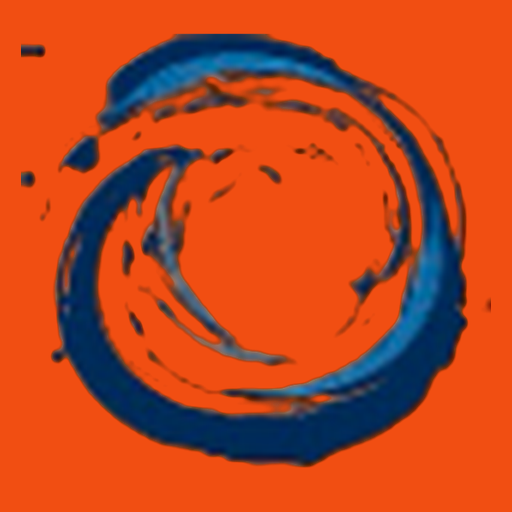
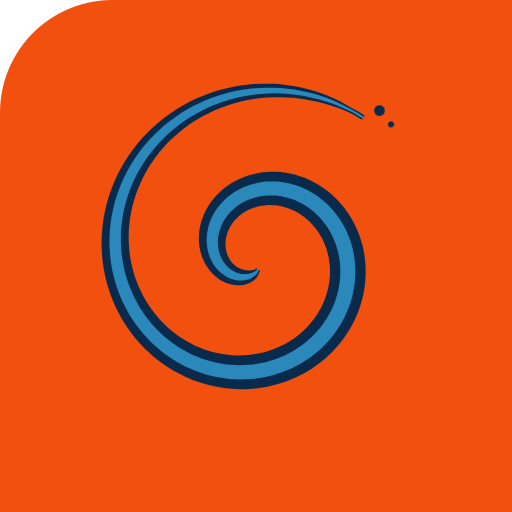
Spirale vettoriale nitida + intro che si dipinge da sola
- Nuova spirale in SVG vettoriale (pennellata calligrafica navy + azzurro):
  nitida a qualsiasi dimensione, leggerissima, non più sgranata
- Intro in stile "logo reveal" (come il reel di riferimento): la spirale si
  disegna da sola tramite maschera animata, poi si rivela il nome
- Spirale crisp usata ovunque (hero, manifesto, footer, bullet, favicon)
- Fix intro: effetto mount-once robusto (non dipende più da useReducedMotion)

diff --git a/src/components/SpiralMark.tsx b/src/components/SpiralMark.tsx
@@ -1,0 +1,84 @@
+"use client";
+
+import { useId } from "react";
+import { motion } from "framer-motion";
+import {
+  SPIRAL_CENTERLINE,
+  SPIRAL_NAVY,
+  SPIRAL_SKY,
+  SPIRAL_SPECKLES,
+} from "@/lib/spiralPaths";
+
+// Spirale vettoriale del brand (viewBox 200x200). Nitida a qualsiasi dimensione.
+// `draw`: la spirale si "dipinge" da sola (stile reel), tramite maschera animata.
+export function SpiralMark({
+  className = "",
+  cream = false,
+  draw = false,
+  duration = 1.9,
+  delay = 0,
+}: {
+  className?: string;
+  cream?: boolean;
+  draw?: boolean;
+  duration?: number;
+  delay?: number;
+}) {
+  const id = useId().replace(/:/g, "");
+  const navy = cream ? "#FBF1E4" : "#0A2A4C";
+  const sky = cream ? "#CFE3F0" : "#2E93C8";
+
+  const Fills = (
+    <>
+      <path d={SPIRAL_NAVY} fill={navy} />
+      <path d={SPIRAL_SKY} fill={sky} opacity={0.9} />
+    </>
+  );
+  const Speckles = SPIRAL_SPECKLES.map(([cx, cy, r], i) => (
+    <circle key={i} cx={cx} cy={cy} r={r} fill={navy} />
+  ));
+
+  if (!draw) {
+    return (
+      <svg viewBox="0 0 200 200" className={className} fill="none" aria-hidden>
+        {Fills}
+        {Speckles}
+      </svg>
+    );
+  }
+
+  return (
+    <svg
+      viewBox="0 0 200 200"
+      className={className}
+      fill="none"
+      role="img"
+      aria-label="MementoLab"
+    >
+      <defs>
+        <mask id={`m-${id}`}>
+          <motion.path
+            d={SPIRAL_CENTERLINE}
+            stroke="#fff"
+            strokeWidth={24}
+            strokeLinecap="round"
+            strokeLinejoin="round"
+            fill="none"
+            initial={{ pathLength: 0 }}
+            animate={{ pathLength: 1 }}
+            transition={{ duration, delay, ease: [0.45, 0, 0.2, 1] }}
+          />
+        </mask>
+      </defs>
+      <g mask={`url(#m-${id})`}>{Fills}</g>
+      <motion.g
+        initial={{ opacity: 0, scale: 0.6 }}
+        animate={{ opacity: 1, scale: 1 }}
+        transition={{ delay: delay + duration * 0.82, duration: 0.4 }}
+        style={{ transformOrigin: "center" }}
+      >
+        {Speckles}
+      </motion.g>
+    </svg>
+  );
+}

diff --git a/src/components/SiteIntro.tsx b/src/components/SiteIntro.tsx
@@ -2,58 +2,48 @@
 
 import Image from "next/image";
 import { useEffect, useState } from "react";
-import { AnimatePresence, motion, useReducedMotion } from "framer-motion";
+import { AnimatePresence, motion } from "framer-motion";
+import { SpiralMark } from "./SpiralMark";
 
 export function SiteIntro() {
   const [show, setShow] = useState(false);
-  const reduce = useReducedMotion();
 
+  // Mostra l'intro una sola volta per sessione (mount-once).
   useEffect(() => {
-    // Mostra l'intro una volta per sessione
-    const seen = sessionStorage.getItem("ml_intro_seen");
-    if (!seen) {
-      setShow(true);
-      document.body.style.overflow = "hidden";
-      const t = setTimeout(() => {
-        sessionStorage.setItem("ml_intro_seen", "1");
-        setShow(false);
-        document.body.style.overflow = "";
-      }, reduce ? 900 : 3000);
-      return () => {
-        clearTimeout(t);
-        document.body.style.overflow = "";
-      };
-    }
-  }, [reduce]);
+    if (sessionStorage.getItem("ml_intro_seen")) return;
+    setShow(true);
+    const t = setTimeout(() => {
+      sessionStorage.setItem("ml_intro_seen", "1");
+      setShow(false);
+    }, 3400);
+    return () => clearTimeout(t);
+  }, []);
+
+  // Blocca lo scroll mentre l'intro è visibile.
+  useEffect(() => {
+    document.body.style.overflow = show ? "hidden" : "";
+    return () => {
+      document.body.style.overflow = "";
+    };
+  }, [show]);
 
   return (
     <AnimatePresence>
       {show && (
         <motion.div
+          key="intro"
           className="fixed inset-0 z-[100] flex flex-col items-center justify-center bg-flame"
           initial={{ opacity: 1 }}
           exit={{ y: "-100%" }}
           transition={{ duration: 0.9, ease: [0.76, 0, 0.24, 1] }}
         >
-          <motion.div
-            initial={reduce ? { opacity: 1 } : { scale: 0, rotate: -220, opacity: 0 }}
-            animate={{ scale: 1, rotate: 0, opacity: 1 }}
-            transition={{ duration: 1.2, ease: [0.16, 1, 0.3, 1] }}
-            className="relative h-32 w-32 sm:h-40 sm:w-40"
-          >
-            <Image
-              src="/brand/spiral.png"
-              alt=""
-              fill
-              priority
-              className="object-contain drop-shadow-[0_6px_20px_rgba(10,42,76,0.25)]"
-            />
-          </motion.div>
+          {/* La spirale si dipinge da sola (stile logo-reveal) */}
+          <SpiralMark draw duration={1.9} className="h-36 w-36 sm:h-44 sm:w-44" />
 
           <motion.div
-            initial={reduce ? { opacity: 1 } : { opacity: 0, y: 16 }}
+            initial={{ opacity: 0, y: 16 }}
             animate={{ opacity: 1, y: 0 }}
-            transition={{ delay: 0.8, duration: 0.8, ease: [0.16, 1, 0.3, 1] }}
+            transition={{ delay: 1.95, duration: 0.7, ease: [0.16, 1, 0.3, 1] }}
             className="relative mt-8 h-8 w-64 sm:h-10 sm:w-80"
           >
             <Image
@@ -68,7 +58,7 @@ export function SiteIntro() {
           <motion.p
             initial={{ opacity: 0 }}
             animate={{ opacity: 1 }}
-            transition={{ delay: 1.5, duration: 0.7 }}
+            transition={{ delay: 2.4, duration: 0.6 }}
             className="mt-5 font-sans text-xs uppercase tracking-wide2 text-ink/70"
           >
             L&apos;arte che indossi

diff --git a/src/components/HeroScroll.tsx b/src/components/HeroScroll.tsx
@@ -4,6 +4,7 @@ import Image from "next/image";
 import Link from "next/link";
 import { useRef } from "react";
 import { motion, useScroll, useTransform, useReducedMotion } from "framer-motion";
+import { SpiralMark } from "./SpiralMark";
 
 export function HeroScroll() {
   const ref = useRef<HTMLDivElement>(null);
@@ -36,28 +37,21 @@ export function HeroScroll() {
           aria-hidden
           className="pointer-events-none absolute -left-[20%] top-[8%] h-[55vh] w-[55vh] opacity-[0.10]"
         >
-          <Image src="/brand/spiral.png" alt="" fill className="spin-slow object-contain" />
+          <Image src="/brand/spiral.svg" alt="" fill className="spin-slow object-contain" />
         </div>
         <div
           aria-hidden
           className="pointer-events-none absolute -right-[18%] bottom-[6%] h-[48vh] w-[48vh] opacity-[0.10]"
         >
-          <Image src="/brand/spiral.png" alt="" fill className="spin-slow-rev object-contain" />
+          <Image src="/brand/spiral.svg" alt="" fill className="spin-slow-rev object-contain" />
         </div>
 
-        {/* Spirale protagonista */}
+        {/* Spirale protagonista (vettoriale, nitida) */}
         <motion.div
           style={reduce ? undefined : { rotate, scale, y: spiralY }}
-          className="relative h-[46vh] max-h-[420px] w-[46vh] max-w-[420px]"
+          className="relative h-[46vh] max-h-[420px] w-[46vh] max-w-[420px] drop-shadow-[0_10px_40px_rgba(10,42,76,0.22)]"
         >
-          <Image
-            src="/brand/spiral.png"
-            alt="MementoLab"
-            fill
-            priority
-            sizes="46vh"
-            className="object-contain drop-shadow-[0_10px_40px_rgba(10,42,76,0.25)]"
-          />
+          <SpiralMark className="h-full w-full" />
         </motion.div>
 
         {/* Wordmark che si rivela */}

diff --git a/src/lib/spiralPaths.ts b/src/lib/spiralPaths.ts
@@ -1,0 +1,5 @@
+// Generato: percorsi della spirale (viewBox 0 0 200 200). Vedi DECISIONS.md
+export const SPIRAL_CENTERLINE = "M 100.94 105.93 L 100.74 106.23 L 100.51 106.52 L 100.26 106.8 L 100.0 107.08 L 99.71 107.34 L 99.4 107.59 L 99.07 107.83 L 98.72 108.05 L 98.35 108.26 L 97.96 108.45 L 97.56 108.62 L 97.13 108.77 L 96.7 108.91 L 96.25 109.02 L 95.78 109.11 L 95.3 109.18 L 94.81 109.22 L 94.31 109.24 L 93.8 109.23 L 93.29 109.19 L 92.76 109.13 L 92.23 109.05 L 91.7 108.93 L 91.16 108.79 L 90.63 108.61 L 90.09 108.41 L 89.55 108.18 L 89.02 107.92 L 88.49 107.63 L 87.97 107.31 L 87.46 106.96 L 86.95 106.58 L 86.46 106.18 L 85.98 105.74 L 85.51 105.28 L 85.05 104.78 L 84.62 104.26 L 84.2 103.72 L 83.8 103.14 L 83.42 102.54 L 83.07 101.92 L 82.74 101.27 L 82.43 100.6 L 82.15 99.91 L 81.9 99.19 L 81.68 98.46 L 81.49 97.7 L 81.33 96.93 L 81.2 96.14 L 81.1 95.34 L 81.04 94.53 L 81.02 93.7 L 81.03 92.86 L 81.08 92.02 L 81.16 91.16 L 81.29 90.3 L 81.45 89.44 L 81.65 88.58 L 81.89 87.71 L 82.17 86.85 L 82.49 85.99 L 82.86 85.13 L 83.26 84.29 L 83.7 83.45 L 84.18 82.62 L 84.71 81.8 L 85.27 81.0 L 85.87 80.22 L 86.52 79.45 L 87.2 78.71 L 87.92 77.98 L 88.67 77.28 L 89.47 76.61 L 90.29 75.96 L 91.16 75.35 L 92.05 74.76 L 92.98 74.21 L 93.94 73.69 L 94.94 73.21 L 95.96 72.76 L 97.0 72.35 L 98.07 71.99 L 99.17 71.67 L 100.29 71.39 L 101.43 71.15 L 102.59 70.96 L 103.77 70.82 L 104.96 70.72 L 106.16 70.68 L 107.38 70.68 L 108.6 70.74 L 109.83 70.84 L 111.07 71.0 L 112.31 71.21 L 113.55 71.48 L 114.79 71.79 L 116.02 72.17 L 117.25 72.59 L 118.46 73.07 L 119.67 73.6 L 120.87 74.19 L 122.04 74.83 L 123.2 75.52 L 124.34 76.26 L 125.46 77.06 L 126.55 77.91 L 127.61 78.81 L 128.64 79.75 L 129.65 80.75 L 130.61 81.8 L 131.54 82.89 L 132.43 84.02 L 133.28 85.2 L 134.09 86.43 L 134.85 87.69 L 135.57 88.99 L 136.23 90.33 L 136.85 91.71 L 137.41 93.12 L 137.92 94.56 L 138.37 96.03 L 138.77 97.52 L 139.1 99.05 L 139.38 100.59 L 139.6 102.16 L 139.75 103.74 L 139.84 105.34 L 139.86 106.95 L 139.82 108.57 L 139.71 110.2 L 139.54 111.83 L 139.3 113.46 L 138.99 115.1 L 138.61 116.73 L 138.16 118.35 L 137.65 119.97 L 137.06 121.57 L 136.41 123.16 L 135.69 124.73 L 134.91 126.28 L 134.06 127.8 L 133.14 129.3 L 132.15 130.77 L 131.1 132.2 L 129.99 133.6 L 128.81 134.97 L 127.58 136.29 L 126.28 137.57 L 124.93 138.8 L 123.52 139.98 L 122.05 141.11 L 120.53 142.19 L 118.96 143.22 L 117.34 144.18 L 115.68 145.08 L 113.97 145.92 L 112.22 146.7 L 110.43 147.41 L 108.6 148.04 L 106.74 148.61 L 104.85 149.11 L 102.92 149.53 L 100.98 149.88 L 99.01 150.14 L 97.02 150.33 L 95.01 150.45 L 92.99 150.48 L 90.96 150.43 L 88.92 150.29 L 86.88 150.08 L 84.84 149.78 L 82.81 149.4 L 80.78 148.94 L 78.75 148.39 L 76.75 147.76 L 74.76 147.04 L 72.79 146.24 L 70.84 145.36 L 68.92 144.4 L 67.04 143.35 L 65.18 142.23 L 63.37 141.03 L 61.6 139.75 L 59.87 138.39 L 58.18 136.96 L 56.55 135.45 L 54.97 133.87 L 53.45 132.23 L 51.99 130.52 L 50.6 128.74 L 49.26 126.89 L 48.0 124.99 L 46.81 123.03 L 45.69 121.02 L 44.65 118.95 L 43.69 116.83 L 42.81 114.67 L 42.02 112.46 L 41.31 110.21 L 40.68 107.93 L 40.15 105.61 L 39.7 103.27 L 39.35 100.89 L 39.1 98.5 L 38.93 96.08 L 38.87 93.65 L 38.9 91.21 L 39.03 88.77 L 39.25 86.31 L 39.58 83.86 L 40.0 81.42 L 40.53 78.98 L 41.15 76.55 L 41.88 74.14 L 42.7 71.76 L 43.62 69.39 L 44.64 67.06 L 45.75 64.76 L 46.96 62.49 L 48.26 60.27 L 49.66 58.09 L 51.15 55.96 L 52.73 53.88 L 54.4 51.86 L 56.15 49.9 L 57.99 48.0 L 59.91 46.17 L 61.91 44.41 L 63.98 42.73 L 66.13 41.12 L 68.35 39.6 L 70.64 38.15 L 72.99 36.8 L 75.41 35.53 L 77.88 34.36 L 80.41 33.28 L 82.98 32.3 L 85.61 31.42 L 88.27 30.64 L 90.98 29.96 L 93.72 29.39 L 96.49 28.93 L 99.29 28.58 L 102.11 28.34 L 104.95 28.21 L 107.8 28.19 L 110.67 28.29 L 113.53 28.5 L 116.4 28.83 L 119.26 29.27 L 122.11 29.82 L 124.95 30.5 L 127.77 31.28 L 130.56 32.18 L 133.33 33.2 L 136.06 34.33 L 138.76 35.57 L 141.41 36.92 L 144.02 38.38 L 146.58 39.95";
+export const SPIRAL_NAVY = "M 100.03 105.31 L 99.84 105.58 L 99.66 105.82 L 99.35 105.96 L 98.98 106.02 L 98.63 106.08 L 98.29 106.14 L 97.95 106.18 L 97.62 106.21 L 97.28 106.24 L 96.95 106.25 L 96.62 106.25 L 96.29 106.24 L 95.96 106.21 L 95.62 106.18 L 95.29 106.13 L 94.95 106.07 L 94.62 105.99 L 94.28 105.9 L 93.94 105.8 L 93.6 105.68 L 93.27 105.55 L 92.93 105.4 L 92.6 105.23 L 92.26 105.05 L 91.93 104.86 L 91.61 104.64 L 91.28 104.42 L 90.97 104.17 L 90.65 103.91 L 90.35 103.63 L 90.05 103.33 L 89.75 103.02 L 89.47 102.69 L 89.19 102.35 L 88.93 101.98 L 88.68 101.61 L 88.43 101.21 L 88.2 100.8 L 87.99 100.37 L 87.79 99.93 L 87.6 99.48 L 87.43 99.01 L 87.28 98.52 L 87.15 98.02 L 87.03 97.51 L 86.93 96.99 L 86.86 96.46 L 86.8 95.92 L 86.77 95.36 L 86.76 94.8 L 86.77 94.23 L 86.8 93.65 L 86.86 93.07 L 86.95 92.48 L 87.06 91.88 L 87.2 91.29 L 87.36 90.69 L 87.55 90.09 L 87.76 89.49 L 88.01 88.89 L 88.28 88.29 L 88.58 87.7 L 88.91 87.12 L 89.26 86.54 L 89.65 85.96 L 90.06 85.4 L 90.5 84.85 L 90.96 84.31 L 91.46 83.78 L 91.98 83.26 L 92.53 82.77 L 93.11 82.28 L 93.71 81.82 L 94.34 81.38 L 94.99 80.95 L 95.67 80.55 L 96.37 80.18 L 97.09 79.82 L 97.84 79.5 L 98.61 79.2 L 99.39 78.93 L 100.2 78.69 L 101.02 78.47 L 101.87 78.29 L 102.72 78.15 L 103.59 78.03 L 104.48 77.95 L 105.38 77.91 L 106.28 77.9 L 107.2 77.93 L 108.12 78.0 L 109.06 78.1 L 109.99 78.24 L 110.93 78.43 L 111.87 78.65 L 112.8 78.91 L 113.74 79.22 L 114.67 79.56 L 115.6 79.94 L 116.52 80.37 L 117.43 80.84 L 118.33 81.35 L 119.22 81.9 L 120.09 82.49 L 120.94 83.12 L 121.78 83.79 L 122.6 84.5 L 123.39 85.25 L 124.16 86.03 L 124.91 86.86 L 125.63 87.72 L 126.32 88.62 L 126.98 89.55 L 127.6 90.52 L 128.2 91.52 L 128.75 92.55 L 129.27 93.62 L 129.75 94.71 L 130.19 95.83 L 130.59 96.98 L 130.94 98.15 L 131.25 99.34 L 131.52 100.56 L 131.74 101.8 L 131.91 103.05 L 132.02 104.32 L 132.09 105.61 L 132.11 106.91 L 132.08 108.21 L 131.99 109.53 L 131.85 110.85 L 131.65 112.18 L 131.41 113.5 L 131.1 114.83 L 130.74 116.15 L 130.32 117.47 L 129.85 118.78 L 129.32 120.08 L 128.74 121.37 L 128.1 122.64 L 127.4 123.9 L 126.65 125.14 L 125.85 126.35 L 124.99 127.54 L 124.07 128.7 L 123.11 129.84 L 122.09 130.94 L 121.02 132.01 L 119.9 133.05 L 118.73 134.04 L 117.52 135.0 L 116.26 135.91 L 114.95 136.78 L 113.6 137.6 L 112.21 138.37 L 110.78 139.09 L 109.31 139.76 L 107.81 140.37 L 106.27 140.93 L 104.7 141.43 L 103.1 141.86 L 101.48 142.24 L 99.83 142.56 L 98.15 142.8 L 96.46 142.99 L 94.75 143.11 L 93.02 143.16 L 91.29 143.14 L 89.54 143.05 L 87.79 142.89 L 86.03 142.66 L 84.27 142.36 L 82.52 141.98 L 80.76 141.53 L 79.02 141.01 L 77.29 140.42 L 75.57 139.76 L 73.87 139.02 L 72.19 138.21 L 70.53 137.33 L 68.9 136.38 L 67.29 135.35 L 65.72 134.26 L 64.19 133.1 L 62.69 131.87 L 61.23 130.58 L 59.82 129.22 L 58.45 127.79 L 57.14 126.31 L 55.87 124.76 L 54.66 123.15 L 53.51 121.49 L 52.42 119.77 L 51.39 118.01 L 50.43 116.19 L 49.54 114.32 L 48.71 112.41 L 47.96 110.45 L 47.28 108.45 L 46.68 106.42 L 46.15 104.35 L 45.71 102.26 L 45.34 100.13 L 45.06 97.98 L 44.87 95.8 L 44.76 93.61 L 44.73 91.4 L 44.8 89.18 L 44.95 86.96 L 45.19 84.72 L 45.52 82.49 L 45.95 80.26 L 46.46 78.03 L 47.07 75.82 L 47.76 73.61 L 48.55 71.43 L 49.43 69.26 L 50.39 67.12 L 51.45 65.01 L 52.6 62.93 L 53.83 60.88 L 55.15 58.88 L 56.56 56.92 L 58.05 55.0 L 59.63 53.14 L 61.29 51.32 L 63.02 49.57 L 64.84 47.88 L 66.72 46.25 L 68.69 44.68 L 70.72 43.19 L 72.82 41.77 L 74.99 40.43 L 77.22 39.17 L 79.51 37.99 L 81.86 36.89 L 84.27 35.88 L 86.72 34.96 L 89.22 34.14 L 91.77 33.4 L 94.35 32.77 L 96.98 32.23 L 99.63 31.8 L 102.32 31.46 L 105.03 31.23 L 107.76 31.1 L 110.52 31.08 L 113.28 31.16 L 116.06 31.35 L 118.84 31.65 L 121.63 32.06 L 124.41 32.57 L 127.19 33.19 L 129.97 33.91 L 132.73 34.74 L 135.48 35.67 L 138.22 36.69 L 140.9 37.89 L 143.47 39.33 L 146.01 40.89 L 147.16 39.01 L 144.58 37.43 L 141.93 35.95 L 139.3 34.44 L 136.65 32.99 L 133.93 31.66 L 131.16 30.45 L 128.34 29.38 L 125.48 28.42 L 122.59 27.59 L 119.67 26.88 L 116.74 26.3 L 113.78 25.84 L 110.82 25.5 L 107.85 25.28 L 104.87 25.19 L 101.91 25.22 L 98.95 25.37 L 96.01 25.63 L 93.09 26.02 L 90.19 26.52 L 87.33 27.14 L 84.49 27.87 L 81.7 28.72 L 78.95 29.67 L 76.25 30.73 L 73.59 31.9 L 71.0 33.17 L 68.46 34.53 L 65.99 36.0 L 63.58 37.56 L 61.24 39.21 L 58.98 40.95 L 56.8 42.78 L 54.7 44.68 L 52.68 46.67 L 50.74 48.72 L 48.9 50.85 L 47.15 53.04 L 45.49 55.3 L 43.93 57.61 L 42.47 59.98 L 41.11 62.39 L 39.85 64.86 L 38.69 67.36 L 37.63 69.9 L 36.69 72.47 L 35.85 75.07 L 35.11 77.7 L 34.48 80.34 L 33.97 83.0 L 33.56 85.67 L 33.26 88.35 L 33.06 91.02 L 32.98 93.7 L 33.0 96.36 L 33.13 99.02 L 33.36 101.66 L 33.7 104.28 L 34.14 106.87 L 34.69 109.44 L 35.33 111.97 L 36.07 114.47 L 36.91 116.93 L 37.85 119.35 L 38.88 121.71 L 39.99 124.03 L 41.2 126.29 L 42.49 128.49 L 43.86 130.64 L 45.32 132.71 L 46.85 134.72 L 48.45 136.67 L 50.13 138.53 L 51.87 140.33 L 53.68 142.04 L 55.54 143.68 L 57.47 145.23 L 59.44 146.7 L 61.47 148.08 L 63.55 149.38 L 65.66 150.58 L 67.82 151.7 L 70.01 152.73 L 72.23 153.66 L 74.47 154.5 L 76.75 155.24 L 79.04 155.89 L 81.34 156.45 L 83.66 156.91 L 85.98 157.27 L 88.31 157.54 L 90.63 157.72 L 92.96 157.8 L 95.27 157.79 L 97.57 157.68 L 99.86 157.48 L 102.13 157.19 L 104.37 156.82 L 106.59 156.35 L 108.77 155.8 L 110.93 155.16 L 113.05 154.44 L 115.12 153.64 L 117.16 152.75 L 119.15 151.79 L 121.09 150.76 L 122.97 149.65 L 124.81 148.48 L 126.58 147.23 L 128.3 145.92 L 129.95 144.55 L 131.54 143.12 L 133.06 141.63 L 134.52 140.09 L 135.9 138.5 L 137.22 136.86 L 138.45 135.18 L 139.62 133.46 L 140.71 131.7 L 141.72 129.91 L 142.65 128.09 L 143.5 126.24 L 144.28 124.36 L 144.97 122.47 L 145.58 120.56 L 146.12 118.63 L 146.57 116.7 L 146.94 114.75 L 147.23 112.81 L 147.43 110.86 L 147.56 108.92 L 147.61 106.99 L 147.58 105.06 L 147.47 103.15 L 147.29 101.26 L 147.02 99.38 L 146.69 97.53 L 146.28 95.7 L 145.8 93.9 L 145.25 92.14 L 144.63 90.4 L 143.94 88.7 L 143.19 87.05 L 142.38 85.43 L 141.51 83.86 L 140.58 82.33 L 139.59 80.86 L 138.55 79.43 L 137.46 78.05 L 136.31 76.73 L 135.13 75.47 L 133.9 74.26 L 132.63 73.12 L 131.32 72.03 L 129.97 71.0 L 128.6 70.04 L 127.19 69.14 L 125.76 68.3 L 124.3 67.53 L 122.83 66.83 L 121.33 66.19 L 119.82 65.62 L 118.3 65.12 L 116.77 64.68 L 115.23 64.31 L 113.69 64.0 L 112.15 63.76 L 110.61 63.59 L 109.08 63.48 L 107.55 63.44 L 106.04 63.46 L 104.54 63.54 L 103.05 63.68 L 101.58 63.89 L 100.14 64.16 L 98.72 64.48 L 97.32 64.86 L 95.95 65.29 L 94.61 65.78 L 93.3 66.32 L 92.03 66.91 L 90.8 67.55 L 89.6 68.24 L 88.44 68.96 L 87.32 69.74 L 86.25 70.55 L 85.22 71.4 L 84.24 72.28 L 83.3 73.2 L 82.41 74.15 L 81.57 75.13 L 80.78 76.13 L 80.05 77.16 L 79.36 78.21 L 78.72 79.27 L 78.14 80.36 L 77.61 81.45 L 77.13 82.56 L 76.71 83.68 L 76.34 84.81 L 76.02 85.94 L 75.75 87.07 L 75.54 88.2 L 75.38 89.32 L 75.26 90.44 L 75.2 91.56 L 75.19 92.66 L 75.23 93.75 L 75.32 94.83 L 75.45 95.89 L 75.63 96.93 L 75.85 97.95 L 76.12 98.95 L 76.43 99.92 L 76.78 100.87 L 77.16 101.79 L 77.59 102.68 L 78.05 103.53 L 78.54 104.36 L 79.06 105.15 L 79.61 105.91 L 80.2 106.63 L 80.8 107.32 L 81.43 107.96 L 82.09 108.57 L 82.76 109.14 L 83.45 109.66 L 84.15 110.15 L 84.87 110.59 L 85.6 110.99 L 86.33 111.35 L 87.07 111.67 L 87.82 111.95 L 88.57 112.18 L 89.32 112.37 L 90.06 112.52 L 90.8 112.63 L 91.53 112.69 L 92.26 112.72 L 92.97 112.71 L 93.67 112.66 L 94.35 112.57 L 95.01 112.44 L 95.65 112.28 L 96.27 112.09 L 96.87 111.86 L 97.44 111.6 L 97.98 111.31 L 98.49 110.99 L 98.97 110.65 L 99.41 110.28 L 99.82 109.89 L 100.18 109.48 L 100.51 109.05 L 100.78 108.6 L 101.01 108.13 L 101.18 107.65 L 101.36 107.21 L 101.63 106.87 L 101.85 106.54 Z";
+export const SPIRAL_SKY = "M 100.56 105.67 L 100.36 105.96 L 100.15 106.23 L 99.88 106.45 L 99.57 106.63 L 99.25 106.81 L 98.93 106.98 L 98.6 107.14 L 98.25 107.28 L 97.9 107.41 L 97.54 107.53 L 97.16 107.63 L 96.78 107.71 L 96.39 107.78 L 95.98 107.83 L 95.57 107.86 L 95.16 107.87 L 94.73 107.86 L 94.3 107.84 L 93.86 107.79 L 93.42 107.72 L 92.97 107.63 L 92.53 107.51 L 92.08 107.38 L 91.63 107.22 L 91.18 107.04 L 90.73 106.83 L 90.28 106.6 L 89.84 106.35 L 89.4 106.07 L 88.97 105.77 L 88.54 105.44 L 88.13 105.09 L 87.72 104.71 L 87.33 104.32 L 86.94 103.89 L 86.58 103.45 L 86.22 102.98 L 85.88 102.49 L 85.56 101.98 L 85.26 101.45 L 84.97 100.89 L 84.71 100.32 L 84.47 99.73 L 84.25 99.12 L 84.06 98.49 L 83.89 97.84 L 83.74 97.18 L 83.63 96.5 L 83.54 95.82 L 83.48 95.11 L 83.45 94.4 L 83.45 93.68 L 83.48 92.95 L 83.54 92.21 L 83.64 91.47 L 83.77 90.72 L 83.93 89.96 L 84.13 89.21 L 84.36 88.46 L 84.62 87.71 L 84.92 86.96 L 85.26 86.21 L 85.63 85.47 L 86.04 84.74 L 86.48 84.02 L 86.95 83.31 L 87.47 82.62 L 88.01 81.94 L 88.59 81.27 L 89.21 80.62 L 89.85 79.99 L 90.54 79.38 L 91.25 78.8 L 91.99 78.24 L 92.77 77.7 L 93.57 77.19 L 94.41 76.71 L 95.27 76.27 L 96.15 75.85 L 97.07 75.46 L 98.01 75.11 L 98.97 74.8 L 99.95 74.53 L 100.95 74.29 L 101.97 74.09 L 103.01 73.93 L 104.07 73.82 L 105.13 73.74 L 106.21 73.71 L 107.3 73.73 L 108.4 73.79 L 109.51 73.89 L 110.62 74.04 L 111.73 74.24 L 112.84 74.49 L 113.95 74.78 L 115.06 75.13 L 116.17 75.52 L 117.26 75.96 L 118.35 76.44 L 119.42 76.98 L 120.48 77.56 L 121.53 78.2 L 122.55 78.88 L 123.56 79.6 L 124.55 80.38 L 125.51 81.2 L 126.44 82.06 L 127.34 82.97 L 128.22 83.92 L 129.06 84.92 L 129.86 85.95 L 130.63 87.03 L 131.37 88.15 L 132.06 89.3 L 132.7 90.49 L 133.31 91.71 L 133.87 92.97 L 134.38 94.26 L 134.84 95.57 L 135.25 96.92 L 135.61 98.29 L 135.92 99.68 L 136.17 101.1 L 136.37 102.53 L 136.5 103.98 L 136.58 105.45 L 136.61 106.93 L 136.57 108.42 L 136.47 109.92 L 136.31 111.42 L 136.09 112.92 L 135.8 114.43 L 135.45 115.93 L 135.04 117.43 L 134.57 118.92 L 134.03 120.4 L 133.44 121.87 L 132.77 123.32 L 132.05 124.75 L 131.26 126.16 L 130.41 127.55 L 129.5 128.91 L 128.53 130.24 L 127.5 131.55 L 126.42 132.81 L 125.27 134.04 L 124.07 135.23 L 122.82 136.38 L 121.51 137.49 L 120.15 138.55 L 118.74 139.55 L 117.28 140.51 L 115.77 141.42 L 114.22 142.26 L 112.63 143.05 L 111.0 143.78 L 109.33 144.45 L 107.62 145.06 L 105.88 145.59 L 104.11 146.07 L 102.32 146.47 L 100.49 146.8 L 98.65 147.06 L 96.78 147.25 L 94.9 147.36 L 93.0 147.4 L 91.1 147.36 L 89.18 147.25 L 87.26 147.06 L 85.34 146.79 L 83.42 146.44 L 81.51 146.01 L 79.6 145.51 L 77.7 144.92 L 75.82 144.26 L 73.96 143.52 L 72.11 142.7 L 70.3 141.8 L 68.5 140.82 L 66.74 139.77 L 65.02 138.64 L 63.33 137.44 L 61.68 136.17 L 60.08 134.82 L 58.52 133.4 L 57.01 131.92 L 55.55 130.37 L 54.15 128.75 L 52.81 127.07 L 51.53 125.32 L 50.32 123.52 L 49.17 121.66 L 48.09 119.75 L 47.08 117.79 L 46.15 115.78 L 45.29 113.72 L 44.51 111.62 L 43.81 109.48 L 43.2 107.3 L 42.67 105.09 L 42.23 102.84 L 41.87 100.57 L 41.6 98.28 L 41.43 95.97 L 41.34 93.64 L 41.35 91.29 L 41.45 88.94 L 41.65 86.58 L 41.94 84.22 L 42.32 81.87 L 42.8 79.52 L 43.38 77.17 L 44.06 74.85 L 44.82 72.54 L 45.69 70.25 L 46.65 67.98 L 47.7 65.75 L 48.85 63.55 L 50.08 61.39 L 51.41 59.26 L 52.83 57.19 L 54.34 55.16 L 55.93 53.18 L 57.61 51.26 L 59.37 49.4 L 61.22 47.6 L 63.14 45.87 L 65.14 44.21 L 67.21 42.62 L 69.35 41.11 L 71.56 39.67 L 73.83 38.32 L 76.17 37.06 L 78.57 35.88 L 81.02 34.8 L 83.52 33.8 L 86.07 32.91 L 88.67 32.11 L 91.31 31.41 L 93.99 30.81 L 96.7 30.32 L 99.44 29.93 L 102.2 29.65 L 104.99 29.48 L 107.79 29.41 L 110.6 29.46 L 113.43 29.62 L 116.26 29.89 L 119.08 30.27 L 121.91 30.76 L 124.72 31.37 L 127.53 32.08 L 130.31 32.91 L 133.08 33.85 L 135.82 34.89 L 138.53 36.04 L 141.2 37.33 L 143.79 38.78 L 146.34 40.34 L 146.82 39.55 L 144.26 37.98 L 141.63 36.51 L 138.99 35.09 L 136.31 33.76 L 133.58 32.55 L 130.81 31.46 L 128.01 30.48 L 125.17 29.62 L 122.31 28.89 L 119.43 28.27 L 116.54 27.76 L 113.64 27.38 L 110.73 27.12 L 107.82 26.97 L 104.92 26.94 L 102.03 27.03 L 99.15 27.23 L 96.29 27.55 L 93.46 27.98 L 90.65 28.52 L 87.88 29.17 L 85.14 29.93 L 82.44 30.79 L 79.79 31.76 L 77.19 32.83 L 74.65 34.0 L 72.15 35.27 L 69.72 36.63 L 67.36 38.09 L 65.06 39.63 L 62.83 41.25 L 60.68 42.96 L 58.6 44.75 L 56.61 46.61 L 54.69 48.54 L 52.86 50.54 L 51.12 52.61 L 49.47 54.73 L 47.91 56.92 L 46.44 59.15 L 45.07 61.44 L 43.8 63.76 L 42.62 66.13 L 41.55 68.54 L 40.57 70.98 L 39.7 73.44 L 38.92 75.93 L 38.25 78.44 L 37.69 80.97 L 37.22 83.5 L 36.86 86.04 L 36.6 88.59 L 36.45 91.13 L 36.39 93.67 L 36.44 96.2 L 36.59 98.72 L 36.84 101.22 L 37.18 103.69 L 37.63 106.14 L 38.16 108.56 L 38.8 110.95 L 39.52 113.31 L 40.34 115.62 L 41.24 117.89 L 42.23 120.11 L 43.3 122.28 L 44.45 124.4 L 45.69 126.46 L 47.0 128.47 L 48.38 130.41 L 49.83 132.28 L 51.35 134.09 L 52.94 135.83 L 54.58 137.5 L 56.29 139.09 L 58.05 140.61 L 59.86 142.05 L 61.72 143.41 L 63.63 144.69 L 65.57 145.88 L 67.55 147.0 L 69.57 148.02 L 71.62 148.96 L 73.7 149.82 L 75.79 150.59 L 77.91 151.27 L 80.04 151.86 L 82.19 152.36 L 84.34 152.77 L 86.5 153.1 L 88.66 153.34 L 90.82 153.49 L 92.98 153.55 L 95.12 153.53 L 97.25 153.42 L 99.36 153.23 L 101.46 152.95 L 103.53 152.59 L 105.58 152.15 L 107.59 151.63 L 109.58 151.03 L 111.53 150.36 L 113.44 149.61 L 115.31 148.79 L 117.14 147.9 L 118.92 146.94 L 120.65 145.92 L 122.33 144.83 L 123.95 143.68 L 125.52 142.48 L 127.04 141.21 L 128.49 139.9 L 129.88 138.53 L 131.21 137.12 L 132.47 135.66 L 133.67 134.16 L 134.8 132.62 L 135.86 131.05 L 136.85 129.44 L 137.77 127.8 L 138.62 126.14 L 139.39 124.45 L 140.09 122.74 L 140.72 121.02 L 141.28 119.28 L 141.76 117.53 L 142.17 115.77 L 142.5 114.01 L 142.77 112.24 L 142.95 110.48 L 143.07 108.72 L 143.12 106.96 L 143.09 105.22 L 142.99 103.49 L 142.83 101.78 L 142.59 100.08 L 142.29 98.41 L 141.92 96.76 L 141.49 95.13 L 141.0 93.54 L 140.44 91.98 L 139.83 90.45 L 139.16 88.95 L 138.43 87.5 L 137.65 86.08 L 136.81 84.71 L 135.93 83.38 L 135.0 82.09 L 134.03 80.86 L 133.01 79.67 L 131.95 78.53 L 130.85 77.45 L 129.72 76.42 L 128.55 75.44 L 127.35 74.52 L 126.13 73.65 L 124.88 72.84 L 123.6 72.09 L 122.31 71.39 L 121.0 70.76 L 119.67 70.18 L 118.33 69.66 L 116.98 69.2 L 115.62 68.81 L 114.25 68.47 L 112.89 68.18 L 111.52 67.96 L 110.16 67.8 L 108.8 67.69 L 107.45 67.64 L 106.11 67.65 L 104.78 67.71 L 103.47 67.82 L 102.17 67.99 L 100.89 68.21 L 99.63 68.48 L 98.39 68.81 L 97.18 69.18 L 96.0 69.59 L 94.84 70.06 L 93.72 70.56 L 92.62 71.11 L 91.56 71.7 L 90.54 72.33 L 89.55 72.99 L 88.6 73.69 L 87.68 74.42 L 86.81 75.18 L 85.98 75.97 L 85.19 76.79 L 84.44 77.63 L 83.74 78.5 L 83.08 79.39 L 82.46 80.29 L 81.89 81.21 L 81.37 82.15 L 80.89 83.1 L 80.45 84.05 L 80.06 85.02 L 79.72 85.99 L 79.42 86.97 L 79.17 87.94 L 78.97 88.92 L 78.8 89.89 L 78.69 90.86 L 78.61 91.82 L 78.58 92.78 L 78.59 93.72 L 78.64 94.65 L 78.73 95.57 L 78.86 96.47 L 79.03 97.36 L 79.23 98.22 L 79.47 99.07 L 79.75 99.89 L 80.06 100.69 L 80.4 101.47 L 80.77 102.22 L 81.17 102.94 L 81.59 103.64 L 82.04 104.31 L 82.52 104.94 L 83.02 105.55 L 83.53 106.12 L 84.07 106.66 L 84.62 107.17 L 85.19 107.64 L 85.78 108.08 L 86.37 108.49 L 86.97 108.86 L 87.59 109.19 L 88.2 109.5 L 88.83 109.76 L 89.45 109.99 L 90.08 110.19 L 90.7 110.35 L 91.32 110.48 L 91.94 110.58 L 92.55 110.64 L 93.15 110.67 L 93.75 110.67 L 94.33 110.64 L 94.9 110.57 L 95.45 110.48 L 95.99 110.36 L 96.51 110.21 L 97.01 110.04 L 97.49 109.84 L 97.95 109.62 L 98.38 109.37 L 98.79 109.11 L 99.18 108.82 L 99.54 108.52 L 99.86 108.2 L 100.16 107.87 L 100.42 107.52 L 100.65 107.16 L 100.87 106.81 L 101.11 106.5 L 101.32 106.18 Z";
+export const SPIRAL_SPECKLES: [number, number, number][] = [[153.6, 36.9, 2.3], [158.6, 42.9, 1.3]];

diff --git a/src/app/chi-sono/page.tsx b/src/app/chi-sono/page.tsx
@@ -82,7 +82,7 @@ export default function ChiSonoPage() {
         <div className="wrap py-20 sm:py-28">
           <Reveal className="mb-12 flex items-center gap-4">
             <span className="relative block h-10 w-10 shrink-0">
-              <Image src="/brand/spiral-cream.png" alt="" fill className="object-contain" />
+              <Image src="/brand/spiral-cream.svg" alt="" fill className="object-contain" />
             </span>
             <h2 className="font-display text-4xl text-paper sm:text-5xl">
               Il percorso

diff --git a/src/app/commissioni/page.tsx b/src/app/commissioni/page.tsx
@@ -34,7 +34,7 @@ export default function CommissioniPage() {
               className="flex items-start gap-3 font-sans text-sm text-ink/80"
             >
               <span className="relative mt-0.5 block h-5 w-5 shrink-0">
-                <Image src="/brand/spiral.png" alt="" fill className="object-contain" />
+                <Image src="/brand/spiral.svg" alt="" fill className="object-contain" />
               </span>
               {p}
             </li>

diff --git a/src/app/layout.tsx b/src/app/layout.tsx
@@ -53,7 +53,7 @@ export const metadata: Metadata = {
   },
   alternates: { canonical: "/" },
   icons: {
-    icon: [{ url: "/apple-icon.png", type: "image/png" }],
+    icon: [{ url: "/icon.svg", type: "image/svg+xml" }],
     apple: [{ url: "/apple-icon.png" }],
   },
 };

diff --git a/src/app/page.tsx b/src/app/page.tsx
@@ -22,7 +22,7 @@ export default function Home() {
       <section className="wrap relative py-20 sm:py-28">
         <Reveal className="mx-auto max-w-3xl text-center">
           <div className="relative mx-auto mb-8 h-14 w-14">
-            <Image src="/brand/spiral.png" alt="" fill className="object-contain" />
+            <Image src="/brand/spiral.svg" alt="" fill className="object-contain" />
           </div>
           <p className="text-balance font-display text-3xl leading-[1.05] text-ink sm:text-4xl md:text-5xl">
             Prendo un capo vissuto — un giubbotto, un jeans, un paio di scarpe — e

diff --git a/src/components/Footer.tsx b/src/components/Footer.tsx
@@ -11,7 +11,7 @@ export function Footer() {
         aria-hidden
         className="pointer-events-none absolute -right-16 -top-16 h-72 w-72 opacity-[0.08] sm:h-96 sm:w-96"
       >
-        <Image src="/brand/spiral-cream.png" alt="" fill className="spin-slow object-contain" />
+        <Image src="/brand/spiral-cream.svg" alt="" fill className="spin-slow object-contain" />
       </div>
       <div className="wrap relative grid gap-12 py-16 md:grid-cols-[1.4fr_1fr_1fr]">
         <div>

diff --git a/DECISIONS.md b/DECISIONS.md
@@ -41,6 +41,18 @@ Scelte progettuali prese in autonomia, con motivazione.
 - **Honeypot** anti-spam nei form (campo nascosto `website`).
 - `prisma generate` inserito in `build` e `postinstall` per il deploy su Vercel.
 
+## Redesign "premium/dinamico" (v2)
+Dopo la prima release, il brand ha chiesto un'esperienza più forte e in movimento. Scelte:
+- **Arancione dominante**: sfondo di tutto il sito nell'arancione vivido del brand (`#F1500F`,
+  vicino al `#FC5300` del logo), navy come inchiostro, azzurro pennellato come accento.
+- **Spirale reale**: estratta in PNG trasparente dalla "O" del logo ufficiale
+  (`public/brand/spiral.png`), con relativi wordmark trasparenti. Sostituisce la spirale SVG
+  ridisegnata in precedenza.
+- **Intro cinematografica** (`SiteIntro.tsx`): all'apertura, la spirale entra e rivela il nome;
+  mostrata una volta per sessione (`sessionStorage`).
+- **Hero scroll-driven** (`HeroScroll.tsx`): con Framer Motion `useScroll`, la spirale ruota e
+  si rimpicciolisce mentre il wordmark si svela con un wipe. Rispetta `prefers-reduced-motion`.
+
 ## Contatti
 - **WhatsApp [phone redacted]** e **Instagram @mementolab_** presi dai contenuti reali.
 - **Email**: placeholder (`[email redacted]`) in `src/lib/site.ts` — **da confermare**.